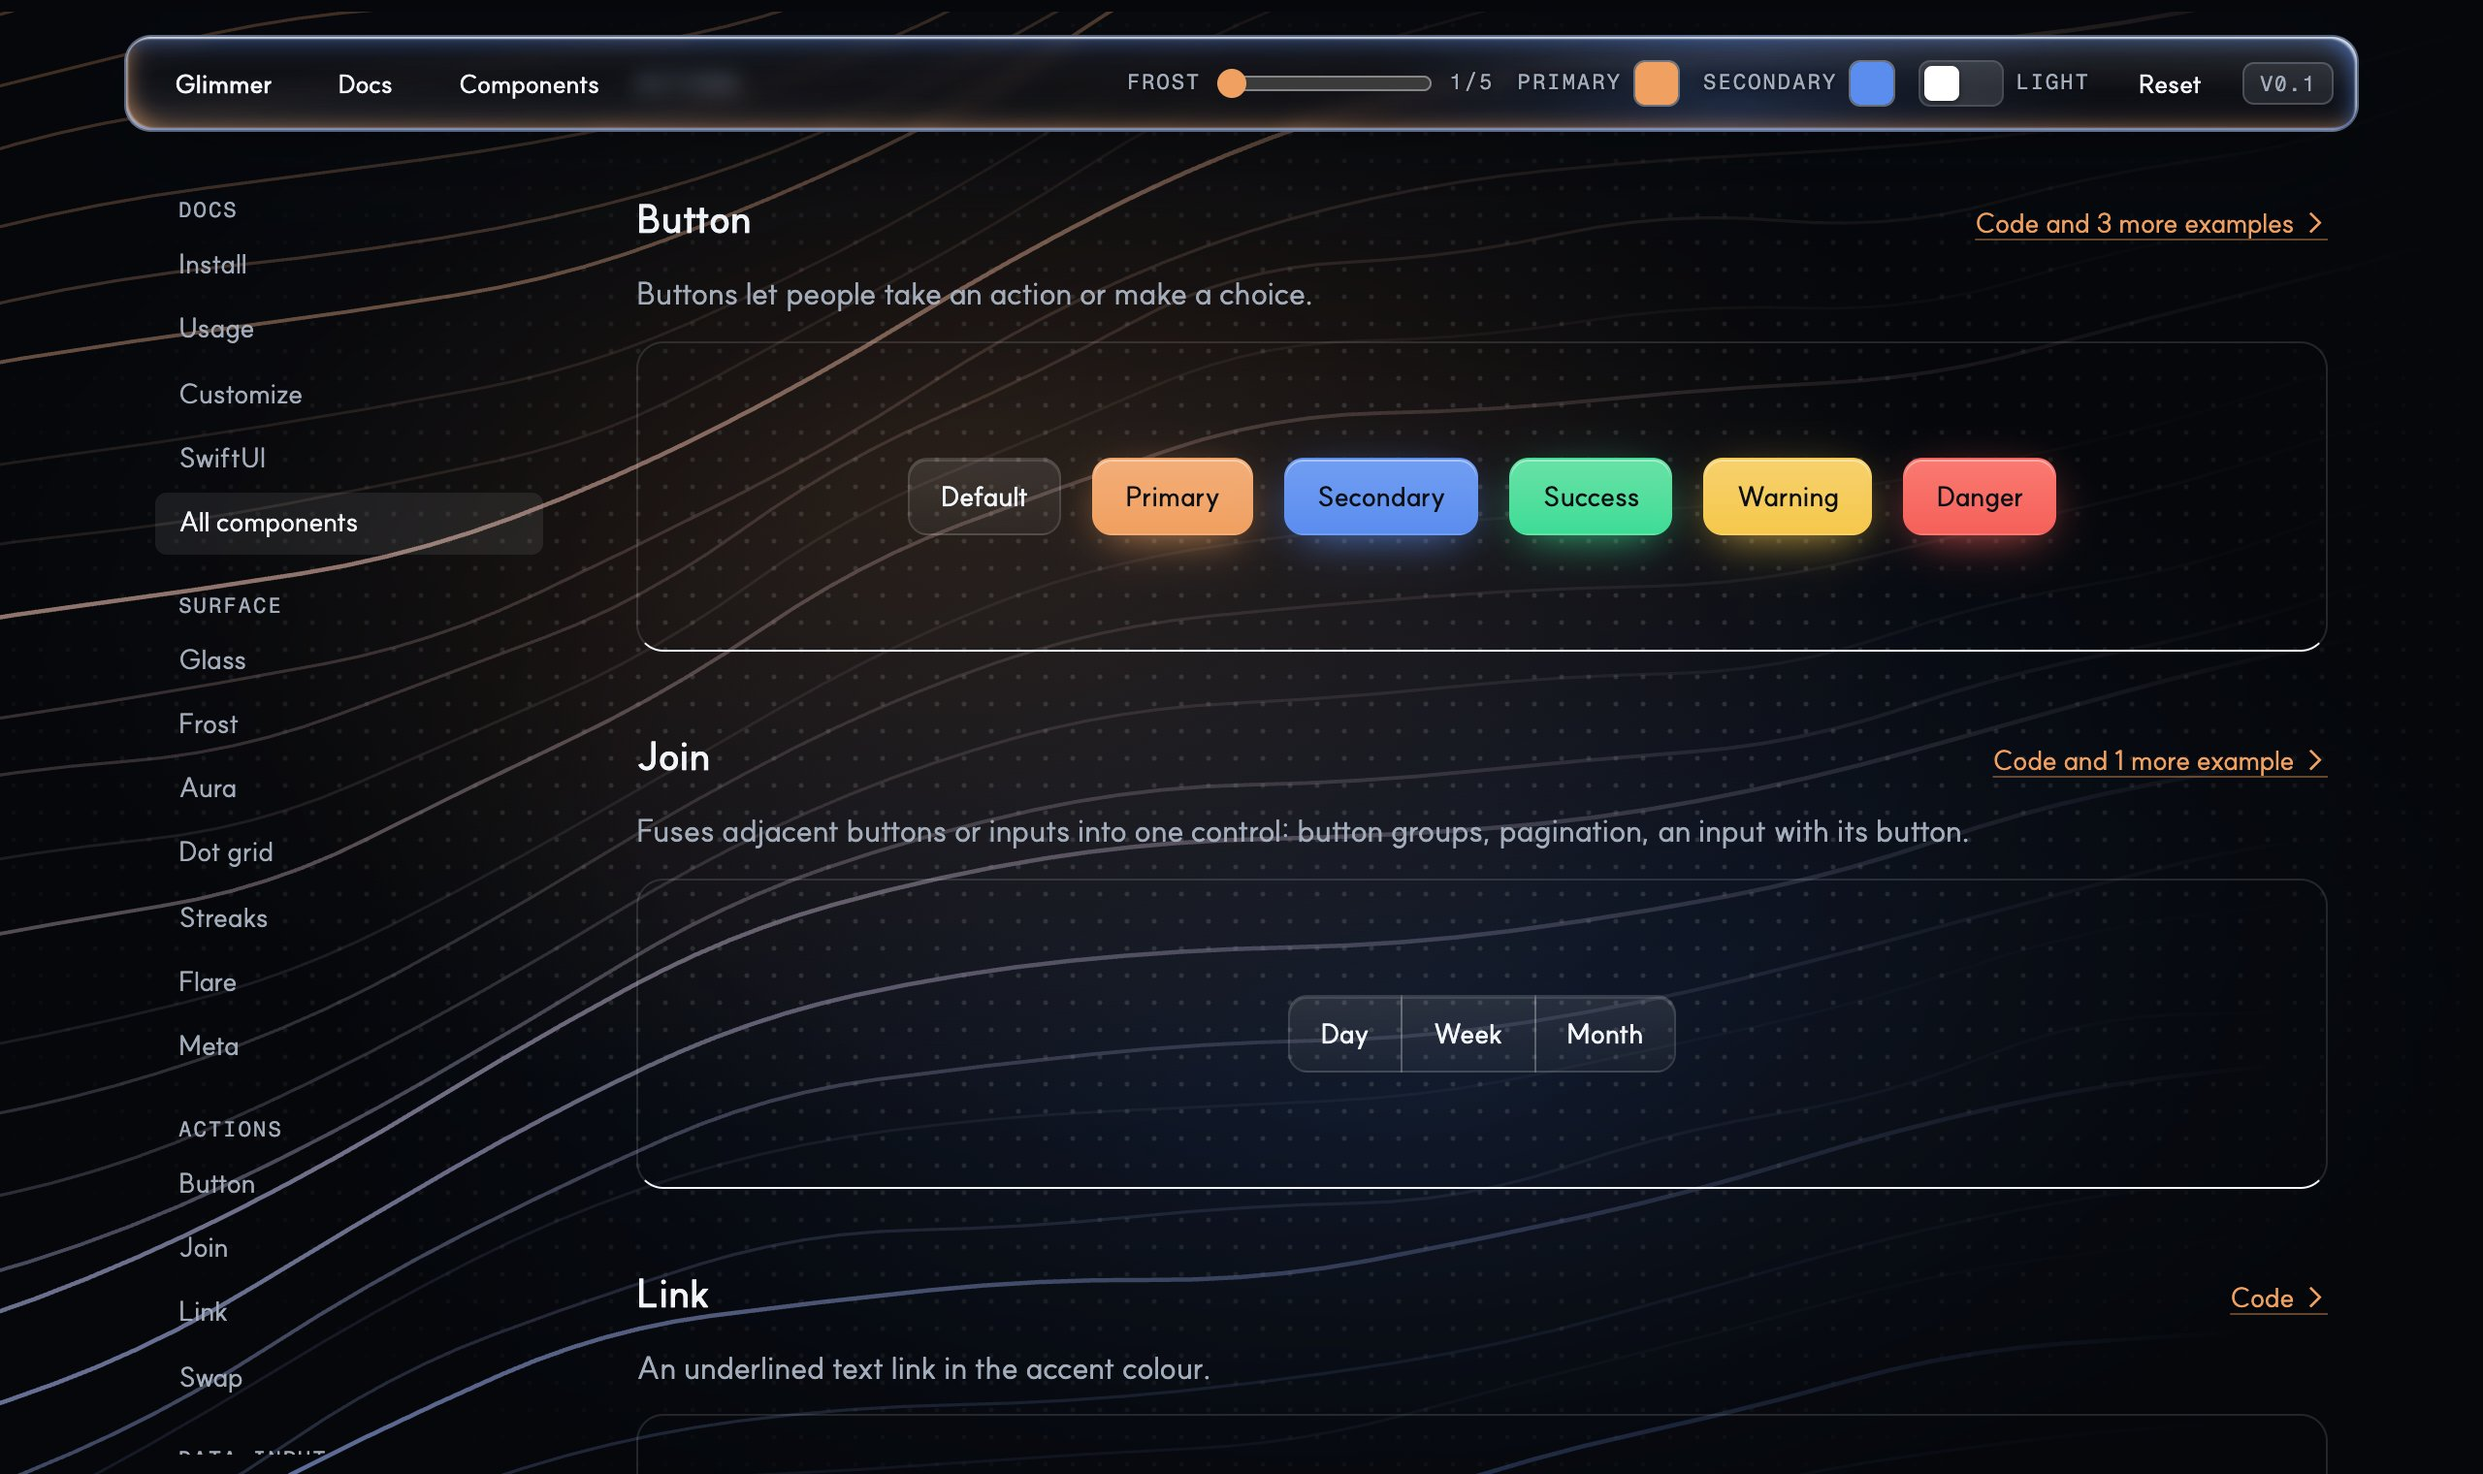
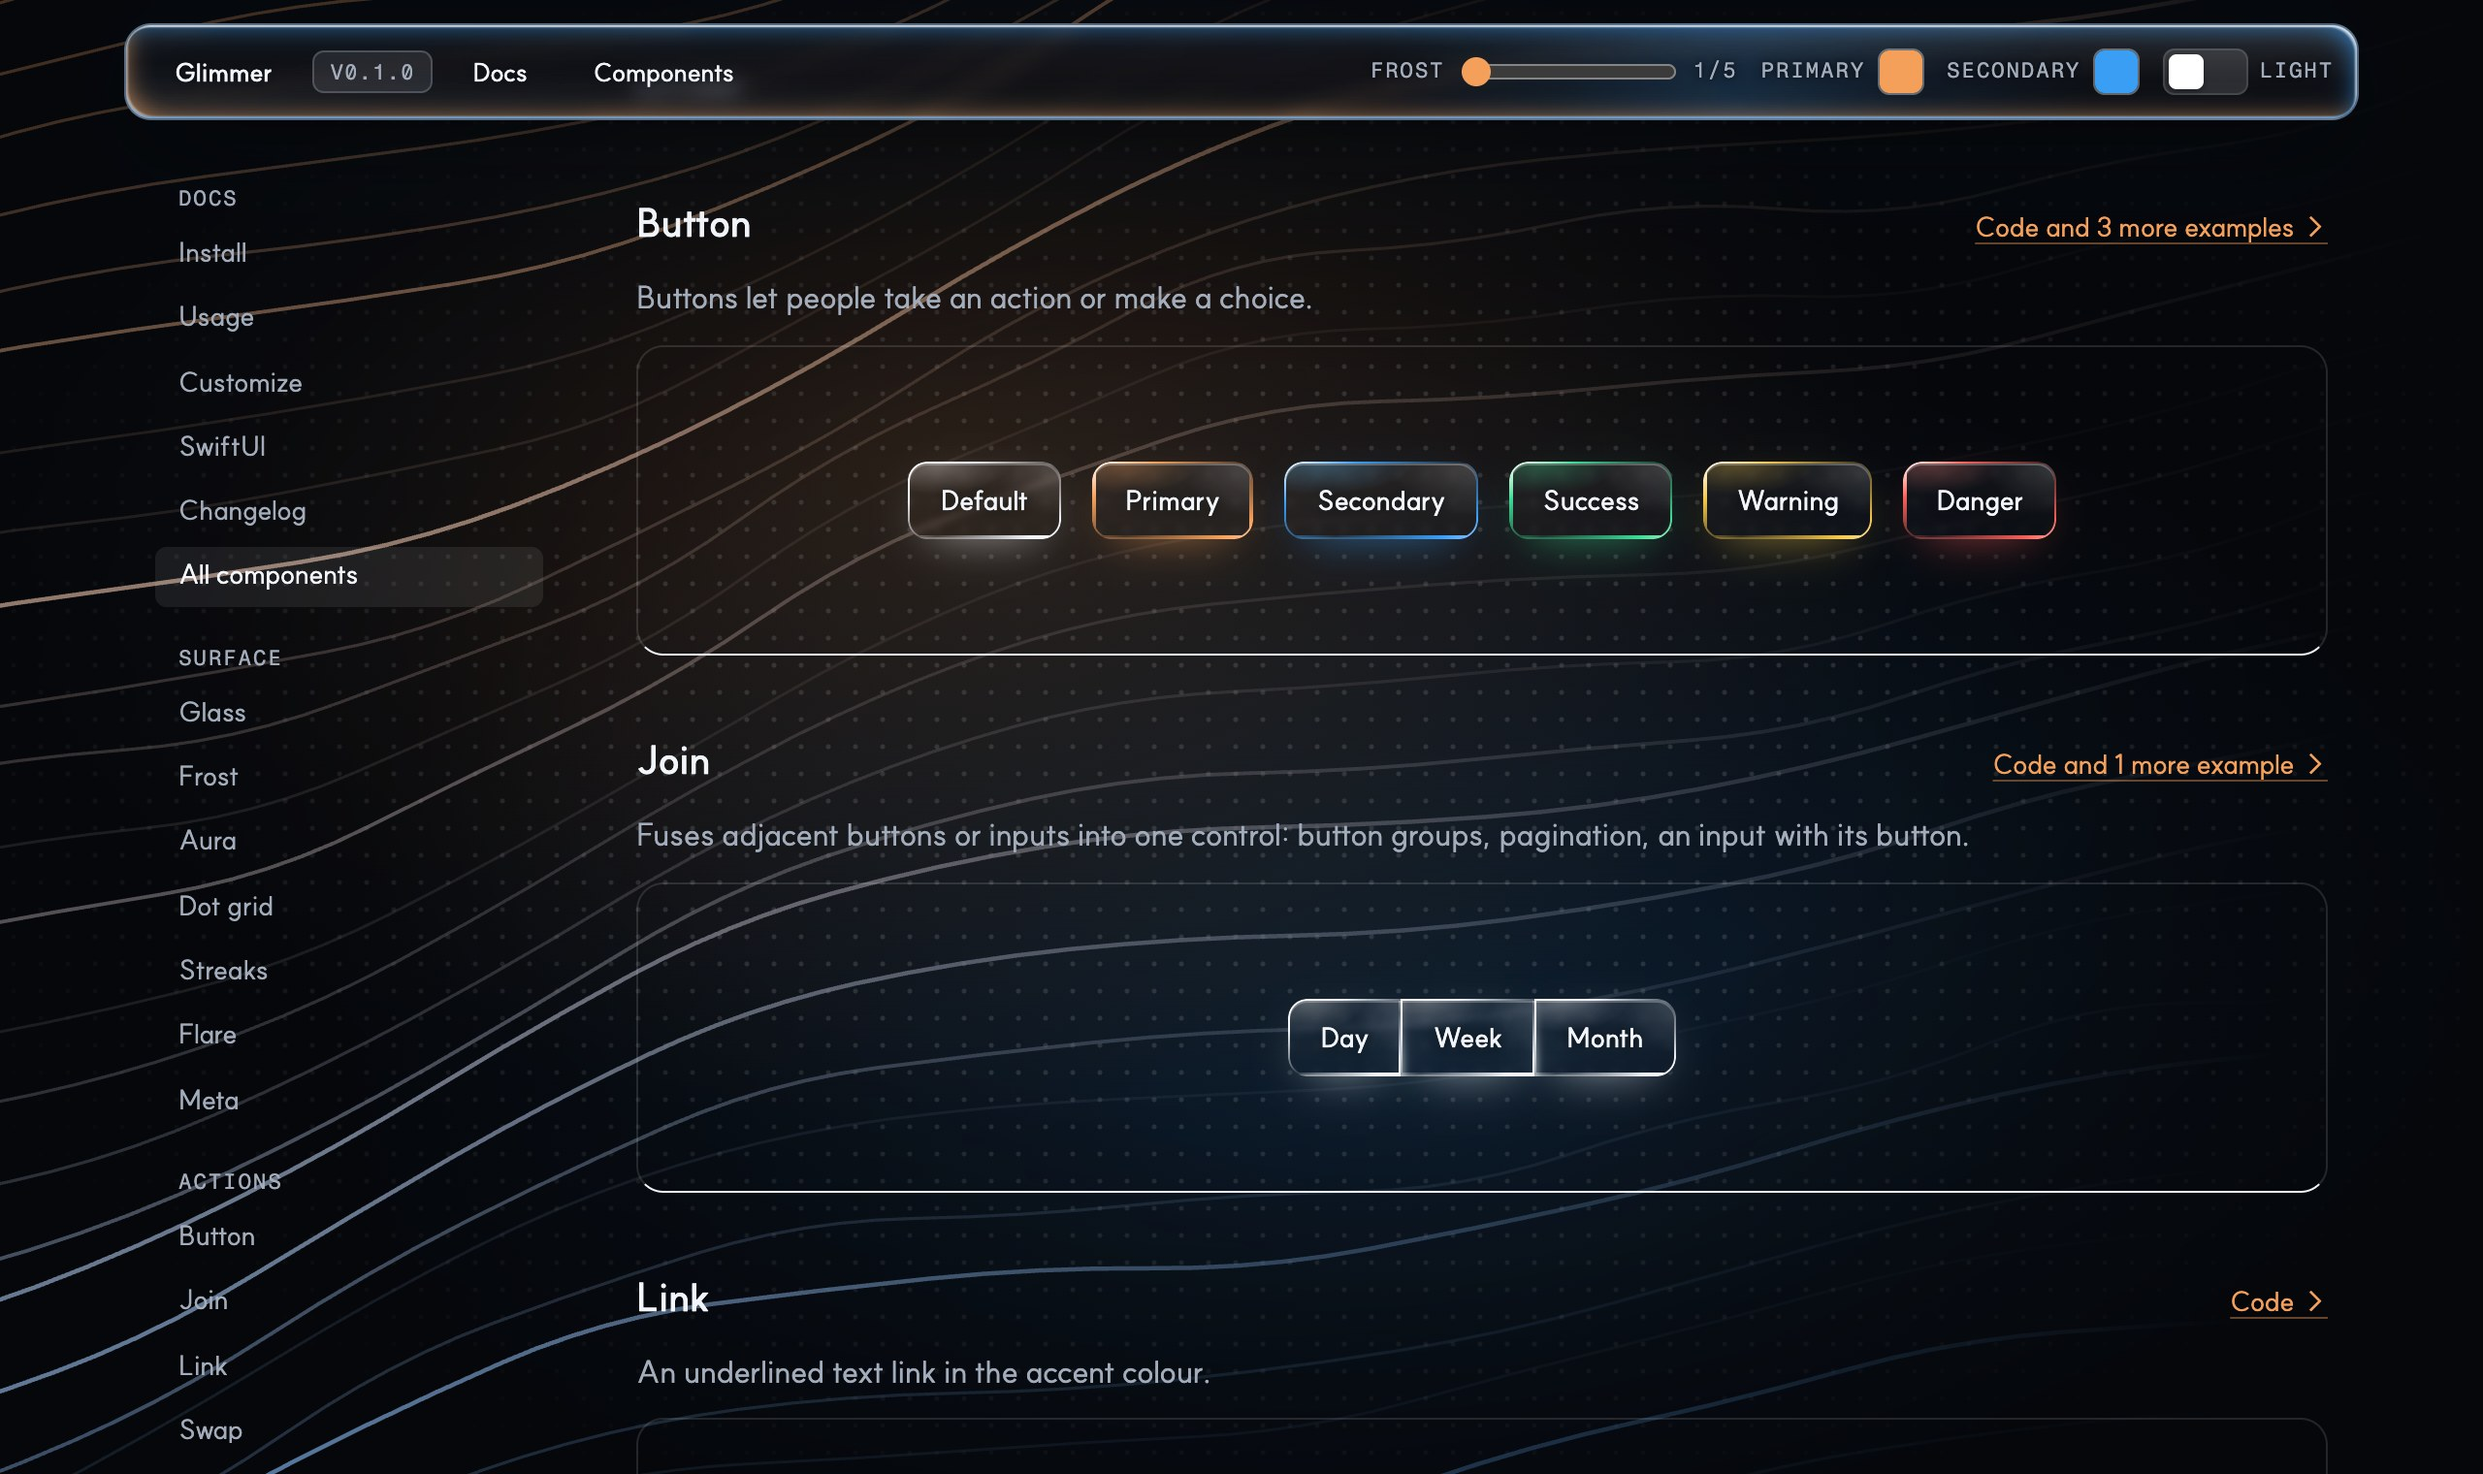
Retake README screenshots, keep the button's corner light pale, add the push-it flow
The default button in the light theme takes the dark text colour, so its
corner light smeared grey; it is now lifted to a pale tint. The README
screenshots and alt text show the new glass buttons. .claude/skills/push-it
records the ship flow: README first, PR, review, SonarCloud, merge, deploy.

diff --git a/css/actions.css b/css/actions.css
@@ -19,7 +19,7 @@
     border-radius: var(--gl-radius-md);
     background:
       /* the colour's light spilling in from the top-left, where the ring is brightest */
-      radial-gradient(70% 60% at 18% 0%, color-mix(in oklab, var(--c) 30%, transparent), transparent 70%),
+      radial-gradient(70% 60% at 18% 0%, var(--spill), transparent 70%),
       /* clear glass only: light pooling in the corner that faces it */
       radial-gradient(45% 70% at 100% 0%, rgb(255 255 255 / calc(var(--r) * 0.16)), transparent),
       /* the frost: a milky wash, a darker body and a blur, scaled by --f */
@@ -48,6 +48,11 @@
     background: linear-gradient(150deg, #fff, var(--c) 22%, color-mix(in oklab, var(--c) 15%, transparent) 55%, var(--c) 88%, color-mix(in oklab, var(--c), #fff 40%));
     mask: linear-gradient(#000 0 0) content-box exclude, linear-gradient(#000 0 0);
     pointer-events: none;
+  }
+  /* The light spilling in from the corner. Kept pale, so a dark colour (the default button in the light theme) doesn't smear grey. */
+  :where(.btn) { --spill: color-mix(in oklab, var(--c) 30%, transparent); }
+  @supports (color: oklch(from red l c h)) {
+    :where(.btn) { --spill: oklch(from var(--c) max(l, 0.8) c h / 0.3); }
   }
   .btn:hover { box-shadow: inset 0 1px 0 rgb(255 255 255 / 0.3), 0 0 22px -4px var(--c); }
   .btn:active { scale: 0.97; }

diff --git a/css/prefixed.css b/css/prefixed.css
@@ -246,7 +246,7 @@
     border-radius: var(--gl-radius-md);
     background:
       
-      radial-gradient(70% 60% at 18% 0%, color-mix(in oklab, var(--c) 30%, transparent), transparent 70%),
+      radial-gradient(70% 60% at 18% 0%, var(--spill), transparent 70%),
       
       radial-gradient(45% 70% at 100% 0%, rgb(255 255 255 / calc(var(--r) * 0.16)), transparent),
       
@@ -274,6 +274,11 @@
     background: linear-gradient(150deg, #fff, var(--c) 22%, color-mix(in oklab, var(--c) 15%, transparent) 55%, var(--c) 88%, color-mix(in oklab, var(--c), #fff 40%));
     mask: linear-gradient(#000 0 0) content-box exclude, linear-gradient(#000 0 0);
     pointer-events: none;
+  }
+  
+  :where(.gl-btn) { --spill: color-mix(in oklab, var(--c) 30%, transparent); }
+  @supports (color: oklch(from red l c h)) {
+    :where(.gl-btn) { --spill: oklch(from var(--c) max(l, 0.8) c h / 0.3); }
   }
   .gl-btn:hover { box-shadow: inset 0 1px 0 rgb(255 255 255 / 0.3), 0 0 22px -4px var(--c); }
   .gl-btn:active { scale: 0.97; }

diff --git a/.claude/skills/push-it/SKILL.md b/.claude/skills/push-it/SKILL.md
@@ -1,0 +1,87 @@
+---
+name: push-it
+description: Glimmer's ship flow. Before proposing any commit, update README.md and CHANGELOG.md. Once the user approves (or says "push it" / runs /push-it), commit, open a PR to main, review it with a subagent, fix findings, check SonarQube Cloud, fix or accept by severity, then merge to main so Vercel deploys glimmer-ui.com. Use whenever work in this repo is ready to commit.
+---
+
+# Push it
+
+Every change is a small, shippable increment. The user's approval of the commit is approval of this whole flow, merge included. Stop and ask only at the stop points below.
+
+## 0. Before asking for approval
+
+- **README.md**: update every part the change touches: feature list, usage snippets, SwiftUI notes, badges. If the change is visible on the docs site, retake the affected shots in `.github/screenshots/` (hero-dark, hero-light, components, chart) from the local site (`preview_start` name `site`) at the same framing, JPEG.
+- **CHANGELOG.md**: one line under `## Unreleased` (prefix `Swift:` or `Docs:` when it is not the web kit).
+- **Swift parity**: a web component change has its SwiftUI side in the same change.
+- Show the user what will ship (files and one-line summary) and ask for approval. Nothing below runs until they say yes.
+
+## 1. Branch
+
+- Never commit to `main`. If the current branch is `main`, or its PR is already merged (`gh pr list --head <branch> --state merged`), make a new branch from `origin/main` named for the change (`git fetch && git switch -c <name> origin/main`) and bring the work over (rebase or cherry-pick the unpushed commits).
+
+## 2. Verify locally
+
+Run all of these; all must pass:
+
+```bash
+npm run build && git diff --exit-code css/prefixed.css css/tailwind.css css/tokens.css
+```
+(Any diff here means generated files were stale: commit them, don't fail.)
+
+```bash
+npm test
+```
+
+```bash
+npm --prefix site run check
+```
+
+```bash
+swift build && swift test
+```
+
+## 3. Commit, push, open the PR
+
+- Commit with an imperative subject naming the change (match `git log` style) and a short body on why. End with the attribution line the session gives.
+- `git push -u origin <branch>`, then `gh pr create --base main` with a summary, a test-plan checklist, and the session's PR attribution line.
+- Bind the PR with the app's PR tools if they are available.
+
+## 4. Review with a subagent
+
+- Spawn one `general-purpose` agent. Give it only the PR number and repo (`huntercash/glimmer-ui`), not your opinion of the code. Ask it to read `gh pr diff <n>` plus the files around each change and report correctness bugs, broken cross-platform parity (CSS vs SwiftUI), accessibility regressions (focus, forced colours, reduced motion, contrast) and stale docs. Each finding gets file:line, severity (high / medium / low) and a concrete failure scenario.
+- Verify each finding yourself. Fix the real ones and push. List what you declined, and why, in a PR comment.
+
+## 5. SonarQube Cloud
+
+Project key `huntercash_glimmer-ui` uses automatic analysis (`.sonarcloud.properties`). The project is public, so the API needs no token.
+
+- Wait for the PR analysis in the background (up to ~10 min), not by polling in the foreground:
+  `https://sonarcloud.io/api/qualitygates/project_status?projectKey=huntercash_glimmer-ui&pullRequest=<n>`
+- Then read the issues and hotspots:
+  `https://sonarcloud.io/api/issues/search?componentKeys=huntercash_glimmer-ui&pullRequest=<n>&resolved=false&ps=100`
+  `https://sonarcloud.io/api/hotspots/search?projectKey=huntercash_glimmer-ui&pullRequest=<n>`
+- **Fix**: anything BLOCKER, CRITICAL or MAJOR (HIGH or MEDIUM impact), every vulnerability, every hotspot that is a real risk, and anything that fails the quality gate.
+- **Accept**: MINOR or INFO (LOW impact) findings when the fix would make the code worse or contradicts a deliberate choice. List each one with its reason in a PR comment so the user can mark it in SonarCloud.
+- If no PR analysis appears in time, check the branch (`&branch=<name>`). If that is missing too, note it in the PR and carry on: Sonar is advisory when it doesn't report.
+
+## 6. Merge
+
+All of these must be true first:
+- Local checks are green after the last fix.
+- The Vercel preview check on the PR head passed (`gh pr checks <n>`).
+- The Sonar quality gate is not `ERROR`.
+
+Then run `gh pr merge <n> --merge` (merge commit, as PR #1 was).
+
+## 7. Confirm it is live
+
+- Vercel deploys `main` to production on its own. Watch the Vercel check on the merge commit (`gh api repos/huntercash/glimmer-ui/commits/<sha>/check-runs`) until it finishes, then open https://glimmer-ui.com and confirm the change shows.
+- Sync locally: `git switch main && git pull`.
+- Report to the user: PR link, what the review and Sonar found and what was fixed or accepted, and the deploy result.
+
+## Stop and ask the user when
+
+- A merge conflict is not mechanical.
+- A review or Sonar finding needs a product or design decision, not just a code fix.
+- The quality gate fails on something you chose to accept.
+- A check fails and the cause is outside the change (CI, Vercel, credentials).
+- The deploy fails or the live site does not show the change.

diff --git a/README.md b/README.md
@@ -13,7 +13,7 @@
 
 **Docs and live examples: [glimmer-ui.com](https://glimmer-ui.com)**
 
-![Glimmer's home page in the dark theme: a glass navbar, the headline "Glass that glows." and glowing buttons](.github/screenshots/hero-dark.jpg)
+![Glimmer's home page in the dark theme: a glass navbar, the headline "Glass that glows." and glass buttons with an edge light](.github/screenshots/hero-dark.jpg)
 
 Glass-and-glow UI for the web and Apple platforms. One set of design tokens, two packages in one repository:
 
@@ -26,7 +26,7 @@ Glass-and-glow UI for the web and Apple platforms. One set of design tokens, two
 
 | Light theme, frosted glass | Every component, live |
 | --- | --- |
-| ![The same page in the light theme with the frost turned up](.github/screenshots/hero-light.jpg) | ![The Components page: buttons in five colours and a joined button group](.github/screenshots/components.jpg) |
+| ![The same page in the light theme with the frost turned up](.github/screenshots/hero-light.jpg) | ![The Components page: glass buttons with an edge light in six colours, and a joined button group](.github/screenshots/components.jpg) |
 
 ![A candlestick chart with 5- and 20-day moving averages and volume bars](.github/screenshots/chart.jpg)
 
